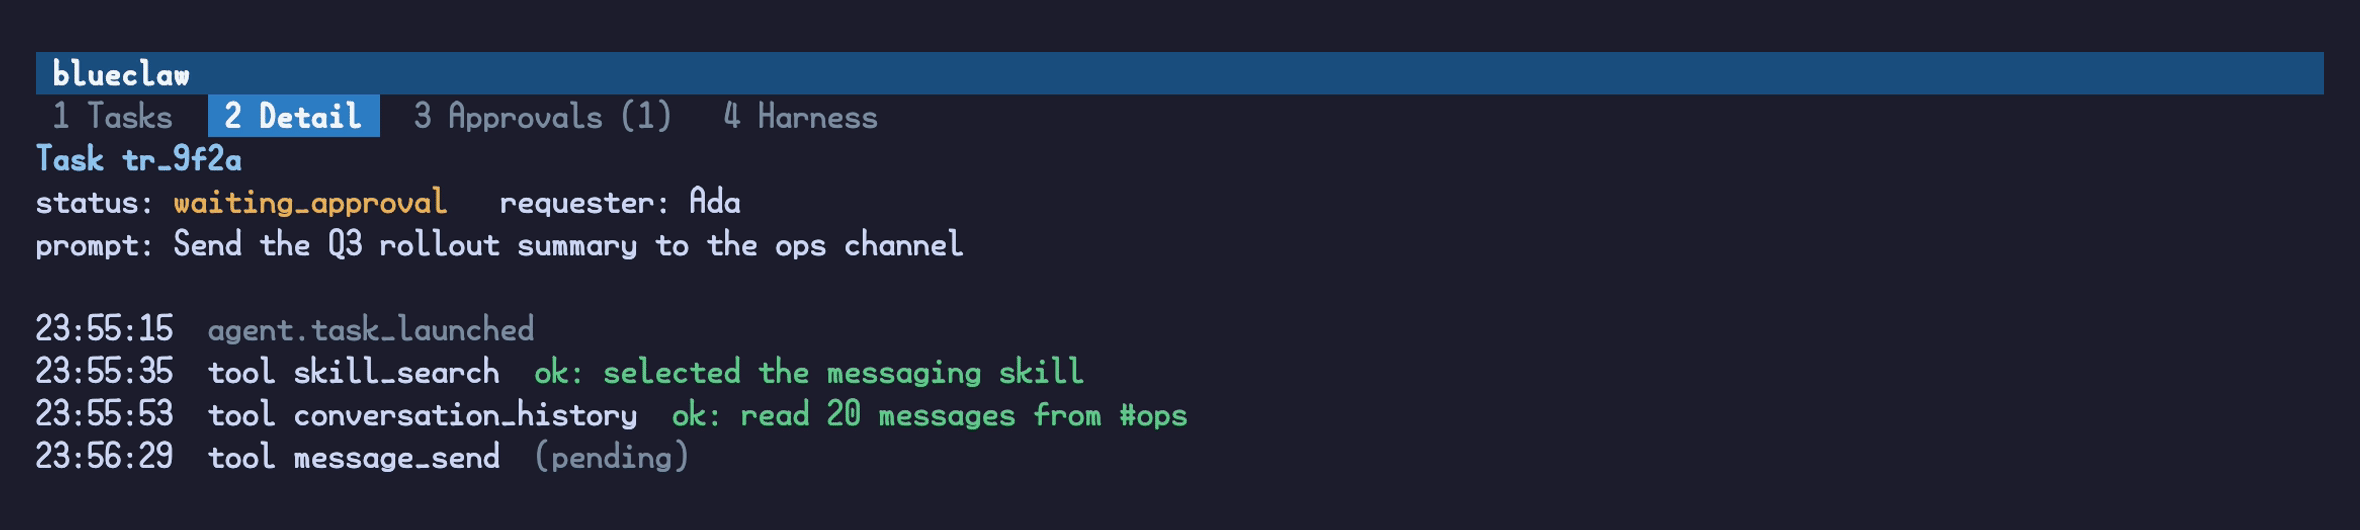
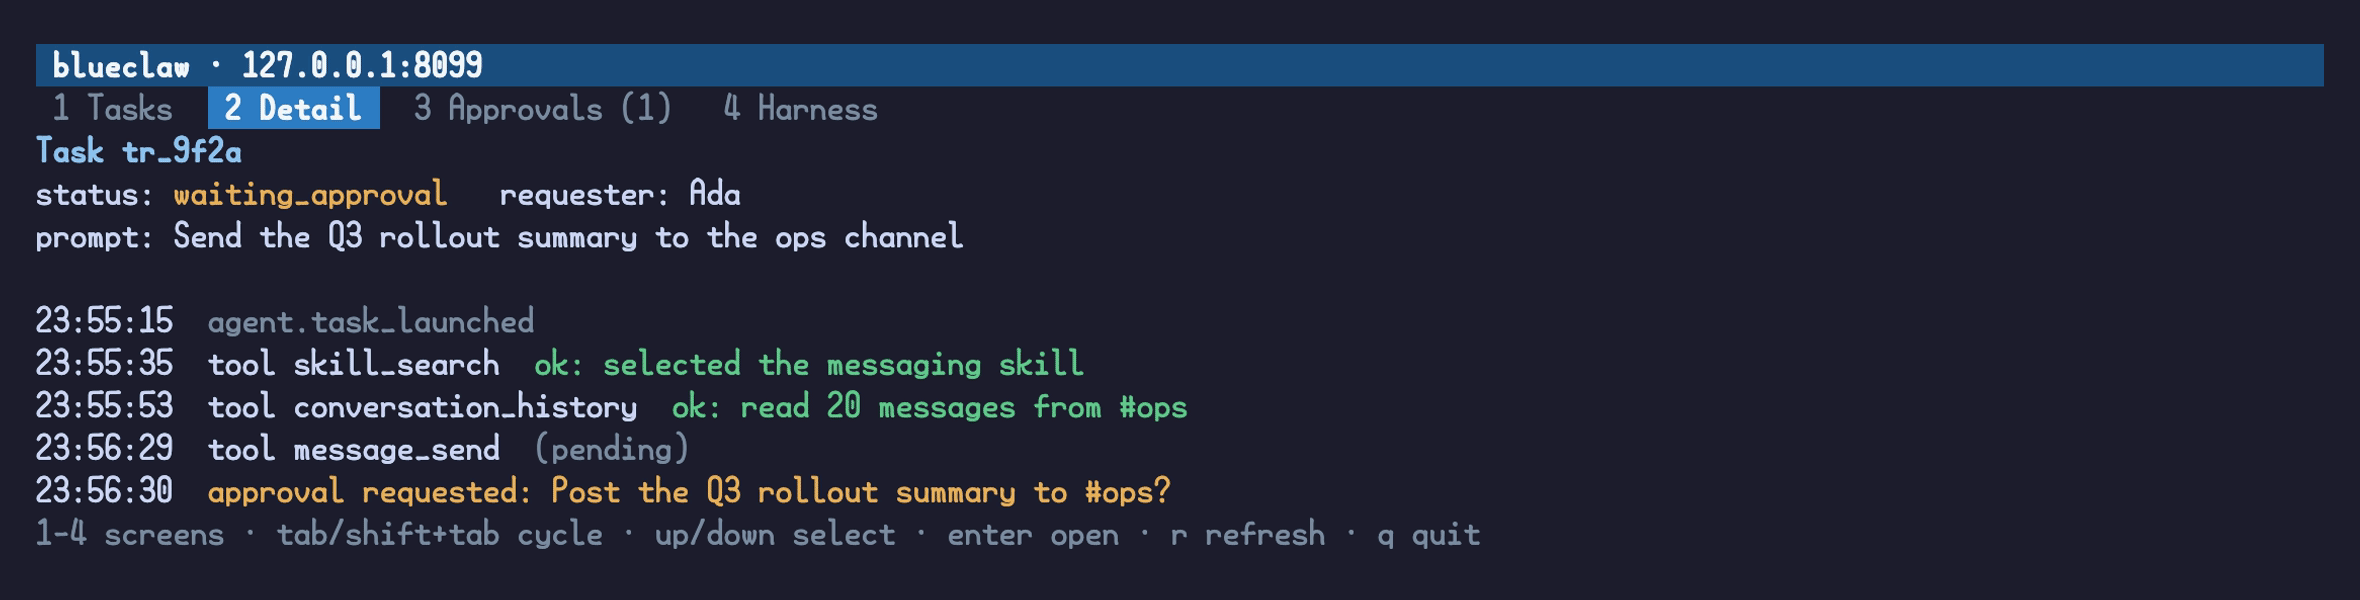
fix(tui): keep the selected row's highlight and its columns intact
The task list built each row with fmt.Sprintf, pre-rendering the status
segment and then wrapping the whole string in the selection style.
lipgloss closes a nested style with a full reset, and never reopens the
outer one, so the selection background died at the status column and
everything after it rendered unhighlighted. It was visible in the README
screenshot.

The columns were wrong for the same reason. padRight(status, 12) cannot
pad waiting_approval (16) or waiting_user_input (18), so any run in those
states pushed its later columns right and no two rows agreed on where a
column started.

Both go away with lipgloss/v2/table, which styles each cell separately and
sizes each column from its own content. That also buys column headers, a
rule under the header only, and a right-aligned age. The "> " marker is
gone: an inverted row already says which one is selected, and the marker
cost two columns of alignment.

The approval question moves into a bordered panel, since it is a decision
a person has to read, and the harness fields move to the same table so
their labels cannot drift out of alignment the way the hand-padded ones
could.

Screenshots are re-recorded from the fixed build.

Changed region(s): [[0.0, 0.0604, 0.9898, 0.483], [0.0, 0.5132, 0.6496, 0.9057]]

diff --git a/internal/tui/view.go b/internal/tui/view.go
@@ -6,6 +6,7 @@ import (
 
 	tea "charm.land/bubbletea/v2"
 	lipgloss "charm.land/lipgloss/v2"
+	"charm.land/lipgloss/v2/table"
 )
 
 func (model Model) View() tea.View {
@@ -43,7 +44,26 @@ func (model Model) renderTabBar() string {
 			renderedTabs = append(renderedTabs, styleTabIdle.Render(label))
 		}
 	}
-	return styleHeaderBar.Width(maximumInt(model.width, 0)).Render("blueclaw") + "\n" + strings.Join(renderedTabs, " ")
+	return styleHeaderBar.Width(maximumInt(model.width, 0)).Render(model.headerTitle()) + "\n" + strings.Join(renderedTabs, " ")
+}
+
+func (model Model) headerTitle() string {
+	host := hostOfURL(model.client.BaseURL())
+	if host == "" {
+		return "blueclaw"
+	}
+	return "blueclaw · " + host
+}
+
+func hostOfURL(baseURL string) string {
+	trimmed := strings.TrimSpace(baseURL)
+	for _, scheme := range []string{"https://", "http://"} {
+		trimmed = strings.TrimPrefix(trimmed, scheme)
+	}
+	if slashIndex := strings.Index(trimmed, "/"); slashIndex >= 0 {
+		trimmed = trimmed[:slashIndex]
+	}
+	return trimmed
 }
 
 func (model Model) renderScreenBody() string {
@@ -78,28 +98,67 @@ func (model Model) renderFooter() string {
 
 func (model Model) renderTasksScreen() string {
 	if len(model.taskRuns) == 0 && model.taskRunsError == nil {
-		return styleMuted.Render("no task runs yet")
+		return renderEmptyState("No task runs yet", "Task runs appear here as they arrive. Press r to refresh.")
 	}
-	lines := []string{styleSectionTitle.Render(fmt.Sprintf("Task runs (%d)", len(model.taskRuns)))}
-	for taskIndex, taskRun := range model.taskRuns {
-		lines = append(lines, model.renderTaskRunRow(taskRun, taskIndex == model.tasksCursor))
+	rows := make([][]string, 0, len(model.taskRuns))
+	for _, taskRun := range model.taskRuns {
+		rows = append(rows, []string{
+			truncateText(taskRun.TaskRunID, 12),
+			string(taskRun.Status),
+			truncateText(firstNonEmpty(taskRun.RequesterDisplayName, taskRun.RequesterPersonID, "-"), 16),
+			formatAge(taskRun.CreatedAt, model.now),
+			truncateText(taskRun.Prompt, 60),
+		})
 	}
-	return strings.Join(lines, "\n")
+	return strings.Join([]string{
+		styleSectionTitle.Render(fmt.Sprintf("Task runs (%d)", len(model.taskRuns))),
+		renderTaskTable([]string{"ID", "STATUS", "REQUESTER", "AGE", "PROMPT"}, rows, model.tasksCursor, columnTaskStatus),
+	}, "\n")
 }
 
-func (model Model) renderTaskRunRow(taskRun TaskRun, isSelected bool) string {
-	requester := firstNonEmpty(taskRun.RequesterDisplayName, taskRun.RequesterPersonID, "-")
-	row := fmt.Sprintf("%-8s  %s  %-16s  %-5s  %s",
-		truncateText(taskRun.TaskRunID, 8),
-		statusStyle(taskRun.Status).Render(padRight(string(taskRun.Status), 12)),
-		truncateText(requester, 16),
-		formatAge(taskRun.CreatedAt, model.now),
-		truncateText(taskRun.Prompt, 60),
-	)
-	if isSelected {
-		return styleSelected.Render("> " + row)
-	}
-	return "  " + row
+const (
+	columnTaskStatus   = 1
+	columnNoneIsStatus = -1
+)
+
+func renderTaskTable(headers []string, rows [][]string, selectedRow int, statusColumn int) string {
+	ageColumn := len(headers) - 2
+	promptColumn := len(headers) - 1
+	return table.New().
+		Border(lipgloss.RoundedBorder()).
+		BorderStyle(lipgloss.NewStyle().Foreground(colorBrandDeep)).
+		BorderColumn(false).
+		BorderRow(false).
+		Headers(headers...).
+		Rows(rows...).
+		StyleFunc(func(row int, column int) lipgloss.Style {
+			if row == table.HeaderRow {
+				return styleTableCell.Foreground(colorBrandSoft).Bold(true)
+			}
+			cell := styleTableCell
+			if column == ageColumn {
+				cell = cell.AlignHorizontal(lipgloss.Right)
+			}
+			if row == selectedRow {
+				return cell.Background(colorBrand).Foreground(colorInk).Bold(true)
+			}
+			if column == statusColumn {
+				return cell.Foreground(statusColor(rows[row][statusColumn]))
+			}
+			if column == promptColumn {
+				return cell.Foreground(colorMuted)
+			}
+			return cell
+		}).
+		Render()
+}
+
+func renderEmptyState(title string, detail string) string {
+	return strings.Join([]string{
+		"",
+		styleSectionTitle.Render(title),
+		styleMuted.Render(detail),
+	}, "\n")
 }
 
 func (model Model) renderDetailScreen() string {
@@ -157,70 +216,80 @@ func renderTimelineEntry(entry TimelineEntry) string {
 func (model Model) renderApprovalsScreen() string {
 	waitingTaskRuns := model.waitingApprovalTaskRuns()
 	if len(waitingTaskRuns) == 0 {
-		return styleMuted.Render("no task runs are waiting for approval")
+		return renderEmptyState("Nothing is waiting for approval", "Task runs that need a human decision appear here.")
 	}
-	lines := []string{styleSectionTitle.Render(fmt.Sprintf("Waiting for approval (%d)", len(waitingTaskRuns)))}
-	for taskIndex, taskRun := range waitingTaskRuns {
-		lines = append(lines, model.renderApprovalRow(taskRun, taskIndex == model.approvalCursor))
+	rows := make([][]string, 0, len(waitingTaskRuns))
+	for _, taskRun := range waitingTaskRuns {
+		rows = append(rows, []string{
+			truncateText(taskRun.TaskRunID, 12),
+			truncateText(firstNonEmpty(taskRun.RequesterDisplayName, taskRun.RequesterPersonID, "-"), 16),
+			formatAge(taskRun.CreatedAt, model.now),
+			truncateText(taskRun.Prompt, 60),
+		})
+	}
+	lines := []string{
+		styleSectionTitle.Render(fmt.Sprintf("Waiting for approval (%d)", len(waitingTaskRuns))),
+		renderTaskTable([]string{"ID", "REQUESTER", "AGE", "PROMPT"}, rows, model.approvalCursor, columnNoneIsStatus),
 	}
 
 	selectedApproval, hasSelection := model.selectedApprovalTaskRun()
 	if !hasSelection {
 		return strings.Join(lines, "\n")
 	}
-	lines = append(lines, "")
-	lines = append(lines, styleSectionTitle.Render("Question"))
+	panelLines := []string{styleSectionTitle.Render("Question")}
 	if approvalError, hasError := model.approvalErrorByID[selectedApproval.TaskRunID]; hasError {
-		lines = append(lines, styleError.Render(approvalError.Error()))
+		panelLines = append(panelLines, styleError.Render(approvalError.Error()))
 	} else if approvalDetail, hasDetail := model.approvalDetailByID[selectedApproval.TaskRunID]; hasDetail {
 		if question, hasQuestion := LatestApprovalQuestion(approvalDetail.TaskEvents); hasQuestion {
-			lines = append(lines, question)
+			panelLines = append(panelLines, question)
 		} else {
-			lines = append(lines, styleMuted.Render("no approval.pending_call event found in this run's ledger"))
+			panelLines = append(panelLines, styleMuted.Render("no approval.pending_call event found in this run's ledger"))
 		}
 	} else {
-		lines = append(lines, styleMuted.Render("loading…"))
+		panelLines = append(panelLines, styleMuted.Render("loading…"))
 	}
 	if statusMessage, hasStatus := model.approvalStatusByID[selectedApproval.TaskRunID]; hasStatus {
-		lines = append(lines, statusMessage)
+		panelLines = append(panelLines, statusMessage)
 	}
 	if model.approvalSubmittingID == selectedApproval.TaskRunID {
-		lines = append(lines, styleMuted.Render("submitting…"))
+		panelLines = append(panelLines, styleMuted.Render("submitting…"))
 	}
-	return strings.Join(lines, "\n")
-}
-
-func (model Model) renderApprovalRow(taskRun TaskRun, isSelected bool) string {
-	requester := firstNonEmpty(taskRun.RequesterDisplayName, taskRun.RequesterPersonID, "-")
-	row := fmt.Sprintf("%-8s  %-16s  %-5s  %s",
-		truncateText(taskRun.TaskRunID, 8),
-		truncateText(requester, 16),
-		formatAge(taskRun.CreatedAt, model.now),
-		truncateText(taskRun.Prompt, 60),
-	)
-	if isSelected {
-		return styleSelected.Render("> " + row)
-	}
-	return "  " + row
+	return strings.Join(append(lines, "", stylePanel.Render(strings.Join(panelLines, "\n"))), "\n")
 }
 
 func (model Model) renderHarnessScreen() string {
 	lines := []string{styleSectionTitle.Render("Harness")}
 	if !model.harnessInfo.IsKnown {
 		lines = append(lines, styleWarning.Render("harness is unknown: "+model.harnessInfo.UnknownReason))
-		lines = append(lines, styleMuted.Render("the admin API does not report which harness a running sandbox uses; pass --runtime pointing at the sandbox's runtime configuration JSON"))
+		lines = append(lines, styleMuted.Render("the admin API does not report which harness a running daemon uses; pass --runtime pointing at the daemon's runtime configuration JSON"))
 		return strings.Join(lines, "\n")
 	}
-	lines = append(lines, styleFieldLabel.Render("name:              ")+model.harnessInfo.Name)
+	fields := [][]string{{"name", model.harnessInfo.Name}}
 	if model.harnessInfo.AgentCommandPath != "" {
-		lines = append(lines, styleFieldLabel.Render("agent command:     ")+model.harnessInfo.AgentCommandPath)
+		fields = append(fields, []string{"agent command", model.harnessInfo.AgentCommandPath})
 	}
-	lines = append(lines, styleFieldLabel.Render("runs as:           ")+harnessIdentityDescription(model.harnessInfo))
+	fields = append(fields, []string{"runs as", harnessIdentityDescription(model.harnessInfo)})
 	if model.harnessInfo.ToolCatalogURL != "" {
-		lines = append(lines, styleFieldLabel.Render("tool catalog:      ")+model.harnessInfo.ToolCatalogURL)
+		fields = append(fields, []string{"tool catalog", model.harnessInfo.ToolCatalogURL})
 	}
+	lines = append(lines, renderFieldTable(fields))
 	lines = append(lines, "", styleMuted.Render(harnessProvenanceDescription(model.harnessInfo)))
 	return strings.Join(lines, "\n")
+}
+
+func renderFieldTable(fields [][]string) string {
+	return table.New().
+		Border(lipgloss.HiddenBorder()).
+		BorderColumn(false).
+		BorderRow(false).
+		Rows(fields...).
+		StyleFunc(func(row int, column int) lipgloss.Style {
+			if column == 0 {
+				return styleTableCell.Foreground(colorMuted)
+			}
+			return styleTableCell
+		}).
+		Render()
 }
 
 func harnessIdentityDescription(harnessInfo HarnessInfo) string {
@@ -232,15 +301,7 @@ func harnessIdentityDescription(harnessInfo HarnessInfo) string {
 
 func harnessProvenanceDescription(harnessInfo HarnessInfo) string {
 	if harnessInfo.IsLiveReport {
-		return "reported by the running sandbox"
+		return "reported by the running daemon"
 	}
-	return "read from " + harnessInfo.RuntimeConfigPath + "; the sandbox was not reachable, so this is the configured harness rather than the running one"
-}
-
-func padRight(text string, width int) string {
-	textWidth := lipgloss.Width(text)
-	if textWidth >= width {
-		return text
-	}
-	return text + strings.Repeat(" ", width-textWidth)
+	return "read from " + harnessInfo.RuntimeConfigPath + "; the daemon was not reachable, so this is the configured harness rather than the running one"
 }

diff --git a/internal/tui/view_test.go b/internal/tui/view_test.go
@@ -1,0 +1,72 @@
+package tui
+
+import (
+	"regexp"
+	"strings"
+	"testing"
+
+	lipgloss "charm.land/lipgloss/v2"
+)
+
+func tasksScreenWithMixedStatusWidths() string {
+	model := Model{
+		screen:      screenTasks,
+		width:       120,
+		tasksCursor: 0,
+		taskRuns: []TaskRun{
+			{TaskRunID: "tr_9f2a", Status: TaskStatusWaitingApproval, RequesterDisplayName: "Ada", Prompt: "Send the summary"},
+			{TaskRunID: "tr_7c14", Status: TaskStatusRunning, RequesterDisplayName: "Grace", Prompt: "Draft the review"},
+			{TaskRunID: "tr_20a7", Status: TaskStatusFailed, RequesterDisplayName: "Rob", Prompt: "Reconcile invoices"},
+		},
+	}
+	return model.renderTasksScreen()
+}
+
+func TestTaskTableKeepsEveryRowTheSameWidthAcrossStatusLengths(testInstance *testing.T) {
+	lines := strings.Split(tasksScreenWithMixedStatusWidths(), "\n")
+
+	widthByLine := map[int][]string{}
+	for _, line := range lines[1:] {
+		widthByLine[lipgloss.Width(line)] = append(widthByLine[lipgloss.Width(line)], line)
+	}
+	if len(widthByLine) != 1 {
+		testInstance.Fatalf("expected every table line to share one width, got %d distinct widths: %v", len(widthByLine), widthByLine)
+	}
+}
+
+func TestSelectedTaskRowHighlightSurvivesToTheEndOfTheRow(testInstance *testing.T) {
+	lines := strings.Split(tasksScreenWithMixedStatusWidths(), "\n")
+
+	selectedLine := ""
+	for _, line := range lines {
+		if strings.Contains(line, "tr_9f2a") {
+			selectedLine = line
+		}
+	}
+	if selectedLine == "" {
+		testInstance.Fatal("expected the selected task run to be rendered")
+	}
+
+	if unhighlighted := textRunsWithoutBackground(selectedLine, "48;2;46;125;196"); len(unhighlighted) > 0 {
+		testInstance.Fatalf("the selection highlight breaks mid-row; these runs carry no background: %q in %q", unhighlighted, selectedLine)
+	}
+}
+
+func textRunsWithoutBackground(line string, backgroundCode string) []string {
+	escape := regexp.MustCompile(`\x1b\[[0-9;]*m`)
+	runs := escape.Split(line, -1)
+	styles := escape.FindAllString(line, -1)
+
+	unhighlighted := []string{}
+	hasBackground := false
+	for runIndex, run := range runs {
+		trimmed := strings.Trim(run, " │")
+		if trimmed != "" && !hasBackground {
+			unhighlighted = append(unhighlighted, run)
+		}
+		if runIndex < len(styles) {
+			hasBackground = strings.Contains(styles[runIndex], backgroundCode)
+		}
+	}
+	return unhighlighted
+}

diff --git a/internal/tui/styles.go b/internal/tui/styles.go
@@ -1,6 +1,10 @@
 package tui
 
-import lipgloss "charm.land/lipgloss/v2"
+import (
+	"image/color"
+
+	lipgloss "charm.land/lipgloss/v2"
+)
 
 var (
 	colorBrand     = lipgloss.Color("#2E7DC4")
@@ -22,22 +26,27 @@ var (
 	styleWarning      = lipgloss.NewStyle().Foreground(colorWarning)
 	styleMuted        = lipgloss.NewStyle().Foreground(colorMuted)
 	styleSelected     = lipgloss.NewStyle().Bold(true).Foreground(colorInk).Background(colorBrand)
+	styleTableCell    = lipgloss.NewStyle().Padding(0, 1)
+	stylePanel        = lipgloss.NewStyle().Border(lipgloss.RoundedBorder()).BorderForeground(colorBrandDeep).Padding(0, 1)
 	styleSuccess      = lipgloss.NewStyle().Foreground(colorSuccess)
 	styleFailure      = lipgloss.NewStyle().Foreground(colorFailure)
 	styleSectionTitle = lipgloss.NewStyle().Bold(true).Foreground(colorBrandSoft)
-	styleFieldLabel   = lipgloss.NewStyle().Foreground(colorMuted)
 	styleOK           = lipgloss.NewStyle().Foreground(colorSuccess)
 )
 
-func statusStyle(status string) lipgloss.Style {
+func statusColor(status string) color.Color {
 	switch status {
 	case TaskStatusCompleted:
-		return styleSuccess
+		return colorSuccess
 	case TaskStatusFailed, TaskStatusCancelled:
-		return styleFailure
+		return colorFailure
 	case TaskStatusWaitingApproval, TaskStatusWaitingInput, TaskStatusBlocked:
-		return styleWarning
+		return colorWarning
 	default:
-		return lipgloss.NewStyle().Foreground(colorBrandSoft)
+		return colorBrandSoft
 	}
+}
+
+func statusStyle(status string) lipgloss.Style {
+	return lipgloss.NewStyle().Foreground(statusColor(status))
 }
